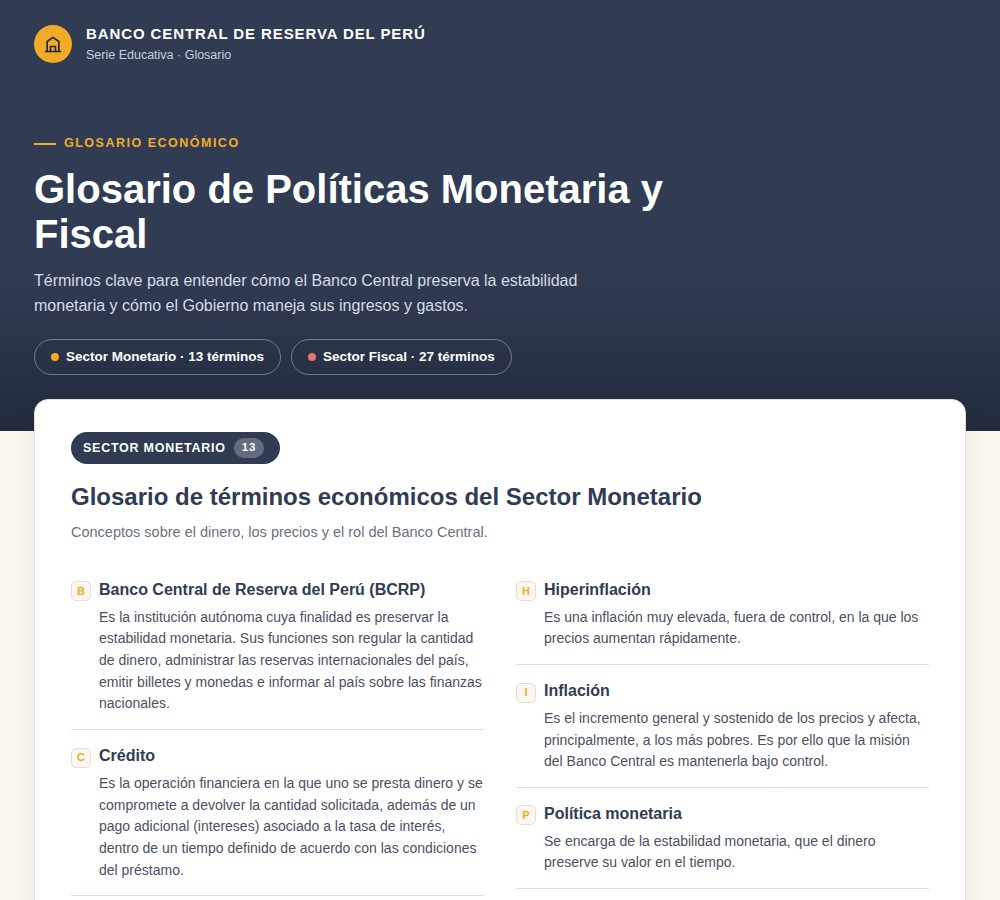
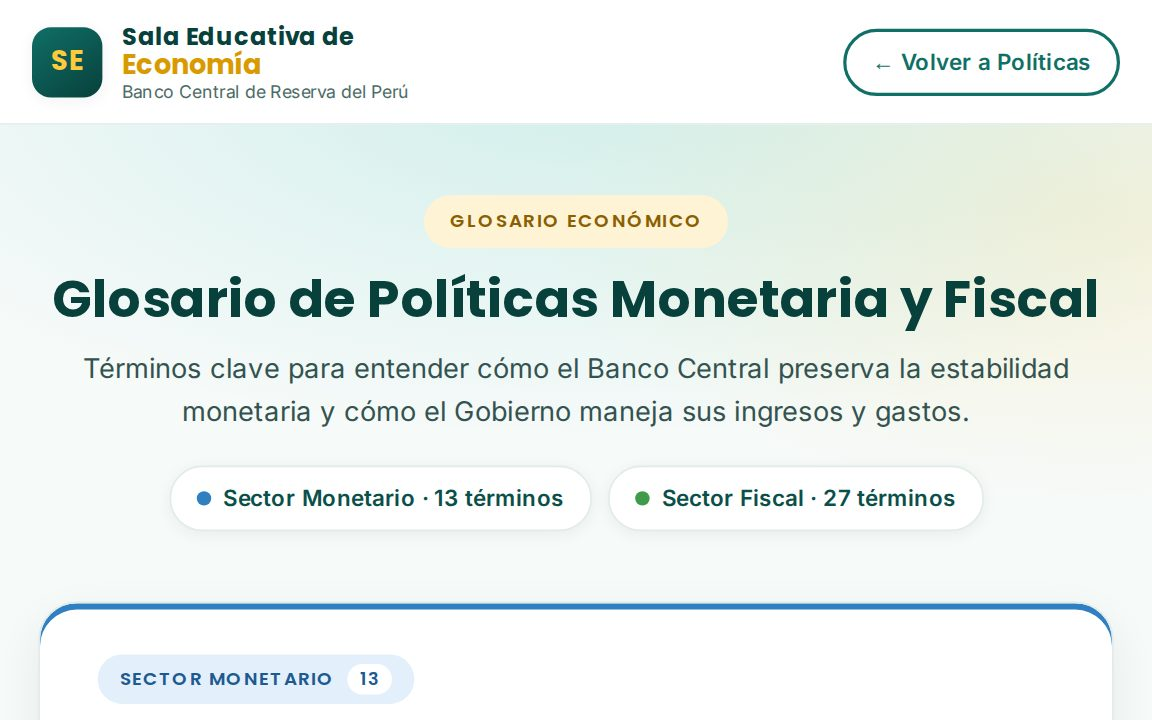
Glosario de Políticas: aplicar el estilo de las lecturas de la Sala
- Encabezado blanco con el logo SE y botón «Volver a Políticas», y portada
  clara y centrada, igual que las lecturas escolares.
- Paleta teal y dorado de la Sala, con tipografía Poppins + Inter.
- Monetario en azul y fiscal en verde, los mismos colores del infográfico
  «Pilares» de Políticas: etiquetas, iniciales y borde superior de cada
  bloque. Todo el texto cumple al menos 4.5:1 de contraste.
- Nueva miniatura en Políticas (16:10), con ?v=2 para evitar la caché.

Claude-Session: https://claude.ai/code/session_01YMmm85HJHDiTT9Gk8PTewn

diff --git a/lecturas/glosario-politicas-monetario-fiscal.html b/lecturas/glosario-politicas-monetario-fiscal.html
@@ -6,114 +6,82 @@
 <title>Glosario Políticas Monetario y Fiscal — BCRP</title>
 <link rel="preconnect" href="https://fonts.googleapis.com">
 <link rel="preconnect" href="https://fonts.gstatic.com" crossorigin>
-<link href="https://fonts.googleapis.com/css2?family=Barlow+Condensed:wght@500;600;700&family=Barlow:wght@400;500;600;700&display=swap" rel="stylesheet">
+<link href="https://fonts.googleapis.com/css2?family=Poppins:wght@500;600;700;800&family=Inter:wght@400;500;600;700&display=swap" rel="stylesheet">
 <style>
   :root{
-    --navy:#313b54;
-    --navy-deep:#232a3d;
-    --gold:#f1ab26;
-    --blue:#4079a2;
-    --teal:#5fc3bb;
-    --maroon:#c0483e;
-    --paper:#faf7f0;
-    --card:#ffffff;
-    --border:#e4dfd2;
-    --text-muted:#6b7180;
-    --shadow-md: 0 8px 24px rgba(35,42,61,0.08);
-    --ease: cubic-bezier(.4,0,.2,1);
+    --navy:#0b4f4a; --navy-deep:#08403c; --gold:#f4b400; --blue:#106f67; --teal:#3fc2b2;
+    --paper:#f6faf9; --card:#ffffff; --border:#e0ece9; --text-muted:#4d6b67;
+    --monetary:#2f7fc1; --monetary-dark:#1d5a91; --monetary-soft:#e3f0fb;
+    --fiscal:#3f9a4a; --fiscal-dark:#2a7234; --fiscal-soft:#e5f4e6;
+    --ease:cubic-bezier(.4,0,.2,1);
   }
   *{box-sizing:border-box;}
-  body{
-    margin:0;
-    background:var(--paper);
-    color:var(--navy-deep);
-    font-family:'Barlow', -apple-system, sans-serif;
-    font-size:16px;
-    line-height:1.55;
-    -webkit-font-smoothing:antialiased;
-  }
-  .page{ max-width:980px; margin:0 auto; padding:0 24px 64px; }
+  html{scroll-behavior:smooth;}
+  @media (prefers-reduced-motion: reduce){html{scroll-behavior:auto;}}
+  body{margin:0;background:var(--paper);color:var(--navy-deep);font-family:'Inter',-apple-system,sans-serif;font-size:16px;line-height:1.6;-webkit-font-smoothing:antialiased;}
+  .page{max-width:980px;margin:0 auto;padding:8px 24px 64px;}
+  @media (max-width:560px){.page{padding:8px 16px 48px;}}
 
-  header.masthead{ background:var(--navy); color:#fff; padding:22px 0; }
-  .masthead-inner{ max-width:980px; margin:0 auto; padding:0 24px; display:flex; align-items:center; gap:14px; }
-  .masthead-mark{ width:38px;height:38px;flex:0 0 auto; border-radius:50%; background:var(--gold); display:flex;align-items:center;justify-content:center; }
-  .masthead-mark svg{ width:20px;height:20px; }
-  .masthead-text{ font-family:'Barlow Condensed', sans-serif; font-weight:600; letter-spacing:0.06em; font-size:15px; text-transform:uppercase; }
-  .masthead-text .sub{ display:block; font-family:'Barlow', sans-serif; font-weight:400; letter-spacing:0; text-transform:none; font-size:12.5px; color:#c9cedb; margin-top:1px; }
+  /* Encabezado y portada con el estilo de la Sala Educativa */
+  header.masthead{background:rgba(255,255,255,0.95);color:var(--navy-deep);border-bottom:1px solid var(--border);padding:14px 0;}
+  .masthead-inner{max-width:1100px;margin:0 auto;padding:0 20px;display:flex;align-items:center;justify-content:space-between;gap:14px;}
+  .brand{display:flex;align-items:center;gap:12px;text-decoration:none;min-width:0;}
+  .brand-mark{display:grid;place-items:center;flex:0 0 auto;width:44px;height:44px;border-radius:12px;background:linear-gradient(145deg,#106f67,var(--navy-deep));color:#ffcb3d;font-family:'Poppins',sans-serif;font-weight:700;font-size:17px;box-shadow:0 2px 10px rgba(9,41,38,0.06);}
+  .brand-text{display:flex;flex-direction:column;line-height:1.15;font-family:'Poppins',sans-serif;}
+  .brand-text strong{font-size:15px;color:var(--navy-deep);}
+  .brand-text em{font-style:normal;font-weight:700;font-size:17px;color:#d99a00;}
+  .brand-text small{font-family:'Inter',sans-serif;font-size:11px;color:var(--text-muted);}
+  .back-link{flex:0 0 auto;font-weight:600;font-size:14px;color:var(--blue);text-decoration:none;border:2px solid var(--blue);border-radius:999px;padding:8px 16px;white-space:nowrap;transition:background .15s ease;}
+  .back-link:hover{background:#e2f4f1;}
+  .back-link:focus-visible{outline:3px solid var(--blue);outline-offset:2px;}
+  @media (max-width:560px){.brand-text small{display:none;}.back-link{font-size:13px;padding:7px 12px;}.back-link .long{display:none;}}
 
-  .hero{ background:linear-gradient(180deg, var(--navy) 0%, var(--navy) 55%, var(--navy-deep) 100%); color:#fff; padding:40px 0 56px; margin-bottom:-32px; }
-  .hero-inner{ max-width:980px;margin:0 auto;padding:0 24px; }
-  .eyebrow{ display:inline-flex; align-items:center; gap:8px; font-family:'Barlow Condensed', sans-serif; font-weight:600; letter-spacing:0.12em; text-transform:uppercase; font-size:12.5px; color:var(--gold); margin-bottom:14px; }
-  .eyebrow::before{ content:""; width:22px;height:2px; background:var(--gold); display:inline-block; }
-  h1.title{ font-family:'Barlow Condensed', sans-serif; font-weight:700; font-size:clamp(28px, 4vw, 42px); line-height:1.12; margin:0 0 12px; max-width:680px; }
-  .hero-sub{ color:#d7dbe6; font-size:16px; max-width:600px; margin:0 0 20px; }
+  .hero{background:radial-gradient(700px 320px at 50% -10%,rgba(63,194,178,0.20),transparent 70%),radial-gradient(500px 260px at 95% 20%,rgba(244,180,0,0.12),transparent 70%),var(--paper);color:var(--navy-deep);text-align:center;padding:44px 0 36px;}
+  .hero-inner{max-width:980px;margin:0 auto;padding:0 20px;}
+  .eyebrow{display:inline-flex;align-items:center;gap:8px;font-family:'Poppins',sans-serif;font-weight:600;letter-spacing:0.08em;text-transform:uppercase;font-size:11.5px;color:#8a5f00;background:#fff3d6;padding:7px 16px;border-radius:999px;margin-bottom:14px;}
+  h1.title{font-family:'Poppins',sans-serif;font-weight:700;font-size:clamp(26px,4.5vw,38px);line-height:1.12;margin:0 auto 12px;max-width:720px;color:var(--navy-deep);}
+  .hero-sub{color:#345350;font-size:17px;max-width:620px;margin:0 auto 20px;}
 
-  .hero-jump{ display:flex; gap:10px; flex-wrap:wrap; }
-  .hero-jump a{
-    font-family:'Barlow Condensed', sans-serif; font-weight:600; font-size:13.5px;
-    color:#fff; text-decoration:none;
-    border:1px solid rgba(255,255,255,0.35); border-radius:999px;
-    padding:7px 16px; transition:background .15s var(--ease);
-  }
-  .hero-jump a:hover{ background:rgba(255,255,255,0.12); }
-  .hero-jump a .dot{ display:inline-block; width:8px;height:8px;border-radius:50%; margin-right:7px; }
+  .hero-jump{display:flex;gap:10px;flex-wrap:wrap;justify-content:center;}
+  .hero-jump a{font-size:14px;font-weight:600;color:var(--navy);text-decoration:none;background:#fff;border:1px solid var(--border);border-radius:999px;padding:8px 16px;box-shadow:0 2px 10px rgba(9,41,38,0.06);transition:border-color .15s var(--ease),transform .15s var(--ease);}
+  .hero-jump a:hover{border-color:var(--blue);transform:translateY(-1px);}
+  .hero-jump a:focus-visible{outline:3px solid var(--blue);outline-offset:2px;}
+  .hero-jump a .dot{display:inline-block;width:9px;height:9px;border-radius:50%;margin-right:8px;}
 
-  .card{ background:var(--card); border:1px solid var(--border); border-radius:14px; box-shadow:var(--shadow-md); padding:32px 36px; margin:0 0 24px; position:relative; z-index:1; }
-  section.block{ margin-top:40px; scroll-margin-top:20px; }
-  section.block:first-of-type{ margin-top:0; }
+  .card{background:var(--card);border:1px solid var(--border);border-radius:24px;box-shadow:0 10px 28px rgba(9,41,38,0.07);padding:32px 36px;margin:0 0 24px;position:relative;z-index:1;}
+  @media (max-width:560px){.card{padding:24px 20px;}}
+  section.block{margin-top:28px;scroll-margin-top:20px;}
+  section.block:first-of-type{margin-top:0;}
+  section.block#monetario .card{box-shadow:inset 0 4px 0 var(--monetary),0 10px 28px rgba(9,41,38,0.07);}
+  section.block#fiscal .card{box-shadow:inset 0 4px 0 var(--fiscal),0 10px 28px rgba(9,41,38,0.07);}
 
-  .section-tag{
-    display:inline-flex; align-items:center; gap:8px;
-    font-family:'Barlow Condensed', sans-serif; font-weight:700; font-size:12.5px;
-    letter-spacing:0.06em; text-transform:uppercase;
-    color:#fff; border-radius:999px; padding:6px 16px 6px 12px;
-    margin-bottom:14px;
-  }
-  .section-tag.monetario{ background:var(--navy); }
-  .section-tag.fiscal{ background:var(--maroon); }
-  .section-tag .count{
-    background:rgba(255,255,255,0.25); border-radius:999px;
-    font-size:11.5px; padding:1px 8px;
-  }
+  .section-tag{display:inline-flex;align-items:center;gap:8px;font-family:'Poppins',sans-serif;font-weight:600;font-size:11.5px;letter-spacing:0.06em;text-transform:uppercase;border-radius:999px;padding:6px 14px 6px 14px;margin-bottom:14px;}
+  .section-tag.monetario{background:var(--monetary-soft);color:var(--monetary-dark);}
+  .section-tag.fiscal{background:var(--fiscal-soft);color:var(--fiscal-dark);}
+  .section-tag .count{background:#fff;border-radius:999px;font-size:11px;padding:1px 8px;}
 
-  h2.section-title{ font-family:'Barlow Condensed', sans-serif; font-weight:700; font-size:24px; color:var(--navy); margin:0 0 6px; }
-  .section-intro{ color:var(--text-muted); font-size:14.5px; margin:0 0 20px; }
+  h2.section-title{font-family:'Poppins',sans-serif;font-weight:700;font-size:21.5px;line-height:1.25;color:var(--navy);margin:0 0 6px;}
+  .section-intro{color:var(--text-muted);font-size:15px;margin:0 0 18px;}
 
-  .glossary-grid{ display:grid; grid-template-columns:1fr 1fr; gap:0 32px; }
-  @media (max-width:680px){ .glossary-grid{ grid-template-columns:1fr; } }
+  .glossary-grid{display:grid;grid-template-columns:1fr 1fr;gap:0 32px;}
+  @media (max-width:680px){.glossary-grid{grid-template-columns:1fr;}}
 
-  .term-entry{ padding:14px 0; border-bottom:1px solid var(--border); }
-  .term-entry:nth-last-child(1), .term-entry:nth-last-child(2){ }
-  .term-name{
-    font-family:'Barlow Condensed', sans-serif; font-weight:700; font-size:16px;
-    color:var(--navy); margin:0 0 4px;
-    display:flex; align-items:baseline; gap:8px;
-  }
-  .term-name .letter{
-    flex:0 0 auto; width:20px; height:20px; border-radius:5px;
-    background:var(--paper); border:1px solid var(--border);
-    color:var(--gold); font-size:11px; font-weight:700;
-    display:inline-flex; align-items:center; justify-content:center;
-    font-family:'Barlow Condensed', sans-serif;
-  }
-  .term-def{ font-size:14px; margin:0; color:#4b5063; padding-left:28px; }
+  .term-entry{padding:14px 0;border-bottom:1px solid var(--border);}
+  .term-name{font-family:'Poppins',sans-serif;font-weight:600;font-size:15px;line-height:1.35;color:var(--navy);margin:0 0 4px;display:flex;align-items:baseline;gap:8px;}
+  .term-name .letter{flex:0 0 auto;width:22px;height:22px;border-radius:7px;background:#fff3d6;color:#8a5f00;font-size:11.5px;font-weight:700;display:inline-flex;align-items:center;justify-content:center;font-family:'Poppins',sans-serif;}
+  #monetario .term-name .letter{background:var(--monetary-soft);color:var(--monetary-dark);}
+  #fiscal .term-name .letter{background:var(--fiscal-soft);color:var(--fiscal-dark);}
+  .term-def{font-size:14.5px;margin:0;color:#345350;padding-left:30px;}
 
-  footer.page-footer{ text-align:center; margin-top:40px; padding-top:24px; border-top:1px solid var(--border); color:var(--text-muted); font-size:12.5px; }
+  footer.page-footer{text-align:center;margin-top:40px;padding-top:24px;border-top:1px solid var(--border);color:var(--text-muted);font-size:13px;}
 </style>
 </head>
 <body>
 
 <header class="masthead">
   <div class="masthead-inner">
-    <div class="masthead-mark">
-      <svg viewBox="0 0 24 24" fill="none" stroke="#232a3d" stroke-width="2" stroke-linecap="round" stroke-linejoin="round">
-        <path d="M3 21h18"/><path d="M5 21V9l7-5 7 5v12"/><path d="M9 21v-6h6v6"/>
-      </svg>
-    </div>
-    <div class="masthead-text">
-      Banco Central de Reserva del Perú
-      <span class="sub">Serie Educativa · Glosario</span>
-    </div>
+    <a class="brand" href="../index.html" aria-label="Sala Educativa de Economía — Inicio"><span class="brand-mark" aria-hidden="true">SE</span><span class="brand-text"><strong>Sala Educativa de</strong><em>Economía</em><small>Banco Central de Reserva del Perú</small></span></a>
+    <a class="back-link" href="../politicas.html">← Volver<span class="long"> a Políticas</span></a>
   </div>
 </header>
 
@@ -123,8 +91,8 @@
     <h1 class="title">Glosario de Políticas Monetaria y Fiscal</h1>
     <p class="hero-sub">Términos clave para entender cómo el Banco Central preserva la estabilidad monetaria y cómo el Gobierno maneja sus ingresos y gastos.</p>
     <div class="hero-jump">
-      <a href="#monetario"><span class="dot" style="background:var(--gold);"></span>Sector Monetario · 13 términos</a>
-      <a href="#fiscal"><span class="dot" style="background:#e07a72;"></span>Sector Fiscal · 27 términos</a>
+      <a href="#monetario"><span class="dot" style="background:var(--monetary);"></span>Sector Monetario · 13 términos</a>
+      <a href="#fiscal"><span class="dot" style="background:var(--fiscal);"></span>Sector Fiscal · 27 términos</a>
     </div>
   </div>
 </div>

diff --git a/politicas.html b/politicas.html
@@ -439,7 +439,7 @@
         <a class="resource-card resource-card--link reveal" href="lecturas/glosario-politicas-monetario-fiscal.html" target="_blank" rel="noopener">
           <div class="resource-card__preview">
             <span class="resource-card__badge">Enlace</span>
-            <img class="resource-card__preview-img" src="assets/recursos-politica/cover-glosario-politicas.jpg" alt="Primera página del Glosario de Políticas Monetaria y Fiscal" loading="lazy" />
+            <img class="resource-card__preview-img" src="assets/recursos-politica/cover-glosario-politicas.jpg?v=2" alt="Primera página del Glosario de Políticas Monetaria y Fiscal" loading="lazy" />
           </div>
           <div class="resource-card__body">
             <h3>Glosario de Políticas Monetaria y Fiscal</h3>
